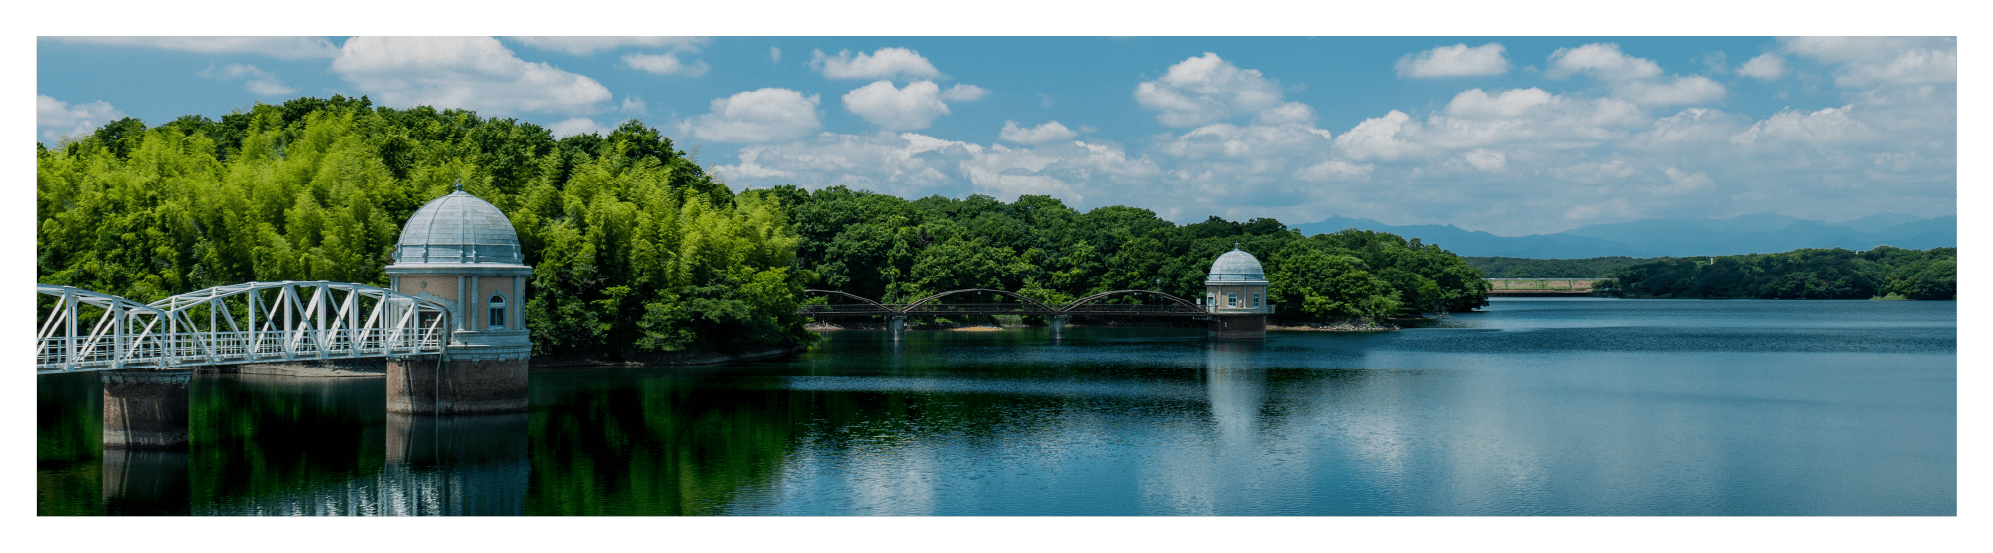
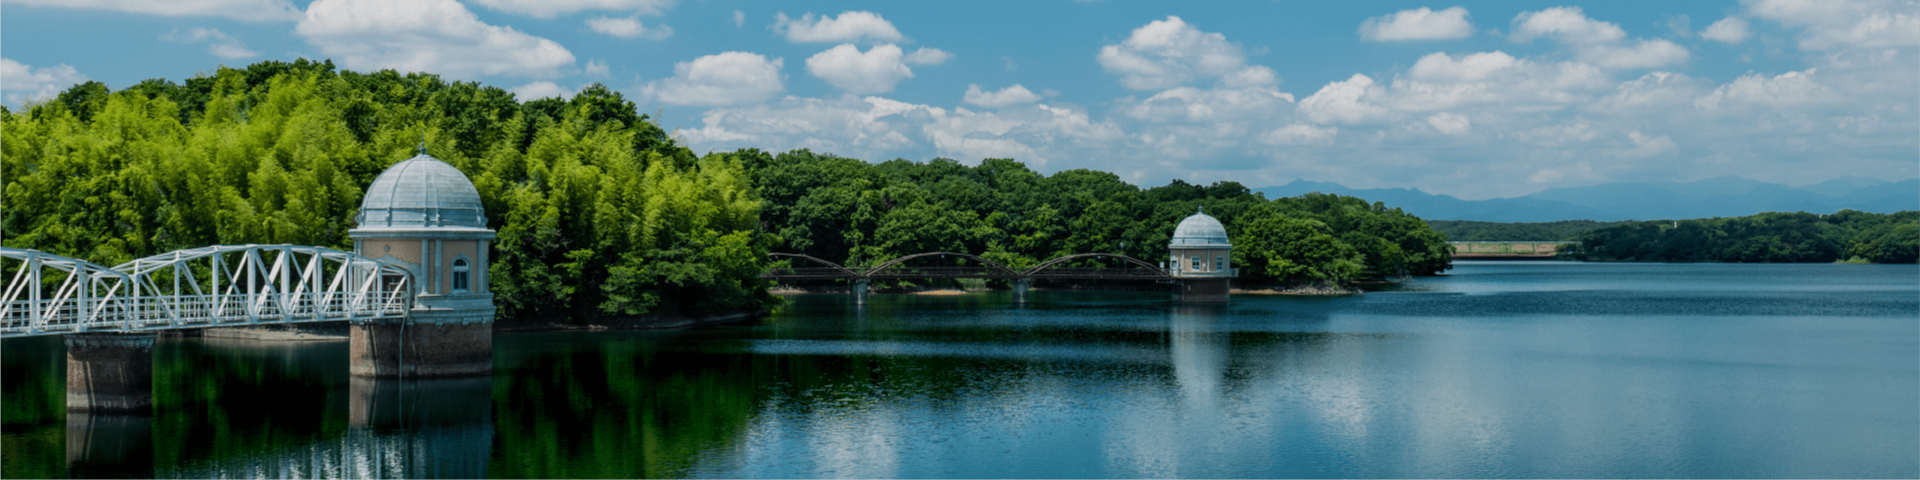
SP > header変更

diff --git a/location.html b/location.html
@@ -148,7 +148,8 @@
         <!-- ファーストビュー -->
         <div class="c-contents -f-view mgb10 mgb10s">
             <div class="imgBox a-fade-blur">
-                <img alt="_カバー" src="images/f-view/location/location-view01-bg.png">
+                <img class="sp"    src="images/f-view/location/location-view01-bg_s.png">
+                <img class="tb-pc" src="images/f-view/location/location-view01-bg.png">
             </div>
             <div class="c-contentsBox -tatePic a-fadeDown -tm1 -sp1">
                 <div class="c-contents -imgBg a-zoomImg">

diff --git a/concept.html b/concept.html
@@ -148,7 +148,8 @@
         <!-- ファーストビュー -->
         <div class="c-contents -f-view mgb10 mgb10s">
             <div class="imgBox a-fade-blur">
-                <img alt="_カバー" src="images/f-view/concept/concept-view01-bg.png">
+                <img class="sp"    src="images/f-view/concept/concept-view01-bg_s.png">
+                <img class="tb-pc" src="images/f-view/concept/concept-view01-bg.png">
             </div>
             <div class="c-contentsBox -tatePic a-fadeDown -tm1 -sp1">
                 <div class="c-contents -imgBg a-zoomImg">

diff --git a/layout.html b/layout.html
@@ -148,7 +148,8 @@
         <!-- ファーストビュー -->
         <div class="c-contents -f-view mgb10 mgb10s">
             <div class="imgBox a-fade-blur">
-                <img alt="_カバー" src="images/f-view/layout/layout-view01-bg.png">
+                <img class="sp"    src="images/f-view/layout/layout-view01-bg_s.png">
+                <img class="tb-pc" src="images/f-view/layout/layout-view01-bg.png">
             </div>
             <div class="c-contentsBox -tatePic -top a-fadeDown -tm1 -sp1">
                 <div class="c-contents -imgBg a-zoomImg">

diff --git a/access.html b/access.html
@@ -149,7 +149,8 @@
         <!-- ファーストビュー -->
         <div class="c-contents -f-view mgb10 mgb10s">
             <div class="imgBox a-fade-blur">
-                <img alt="_カバー" src="images/f-view/access/access-view01-bg.png">
+                <img class="sp"    src="images/f-view/access/access-view01-bg_s.png">
+                <img class="tb-pc" src="images/f-view/access/access-view01-bg.png">
             </div>
             <div class="c-contentsBox -tatePic a-fadeDown -tm1 -sp1">
                 <div class="c-contents -imgBg a-zoomImg">
